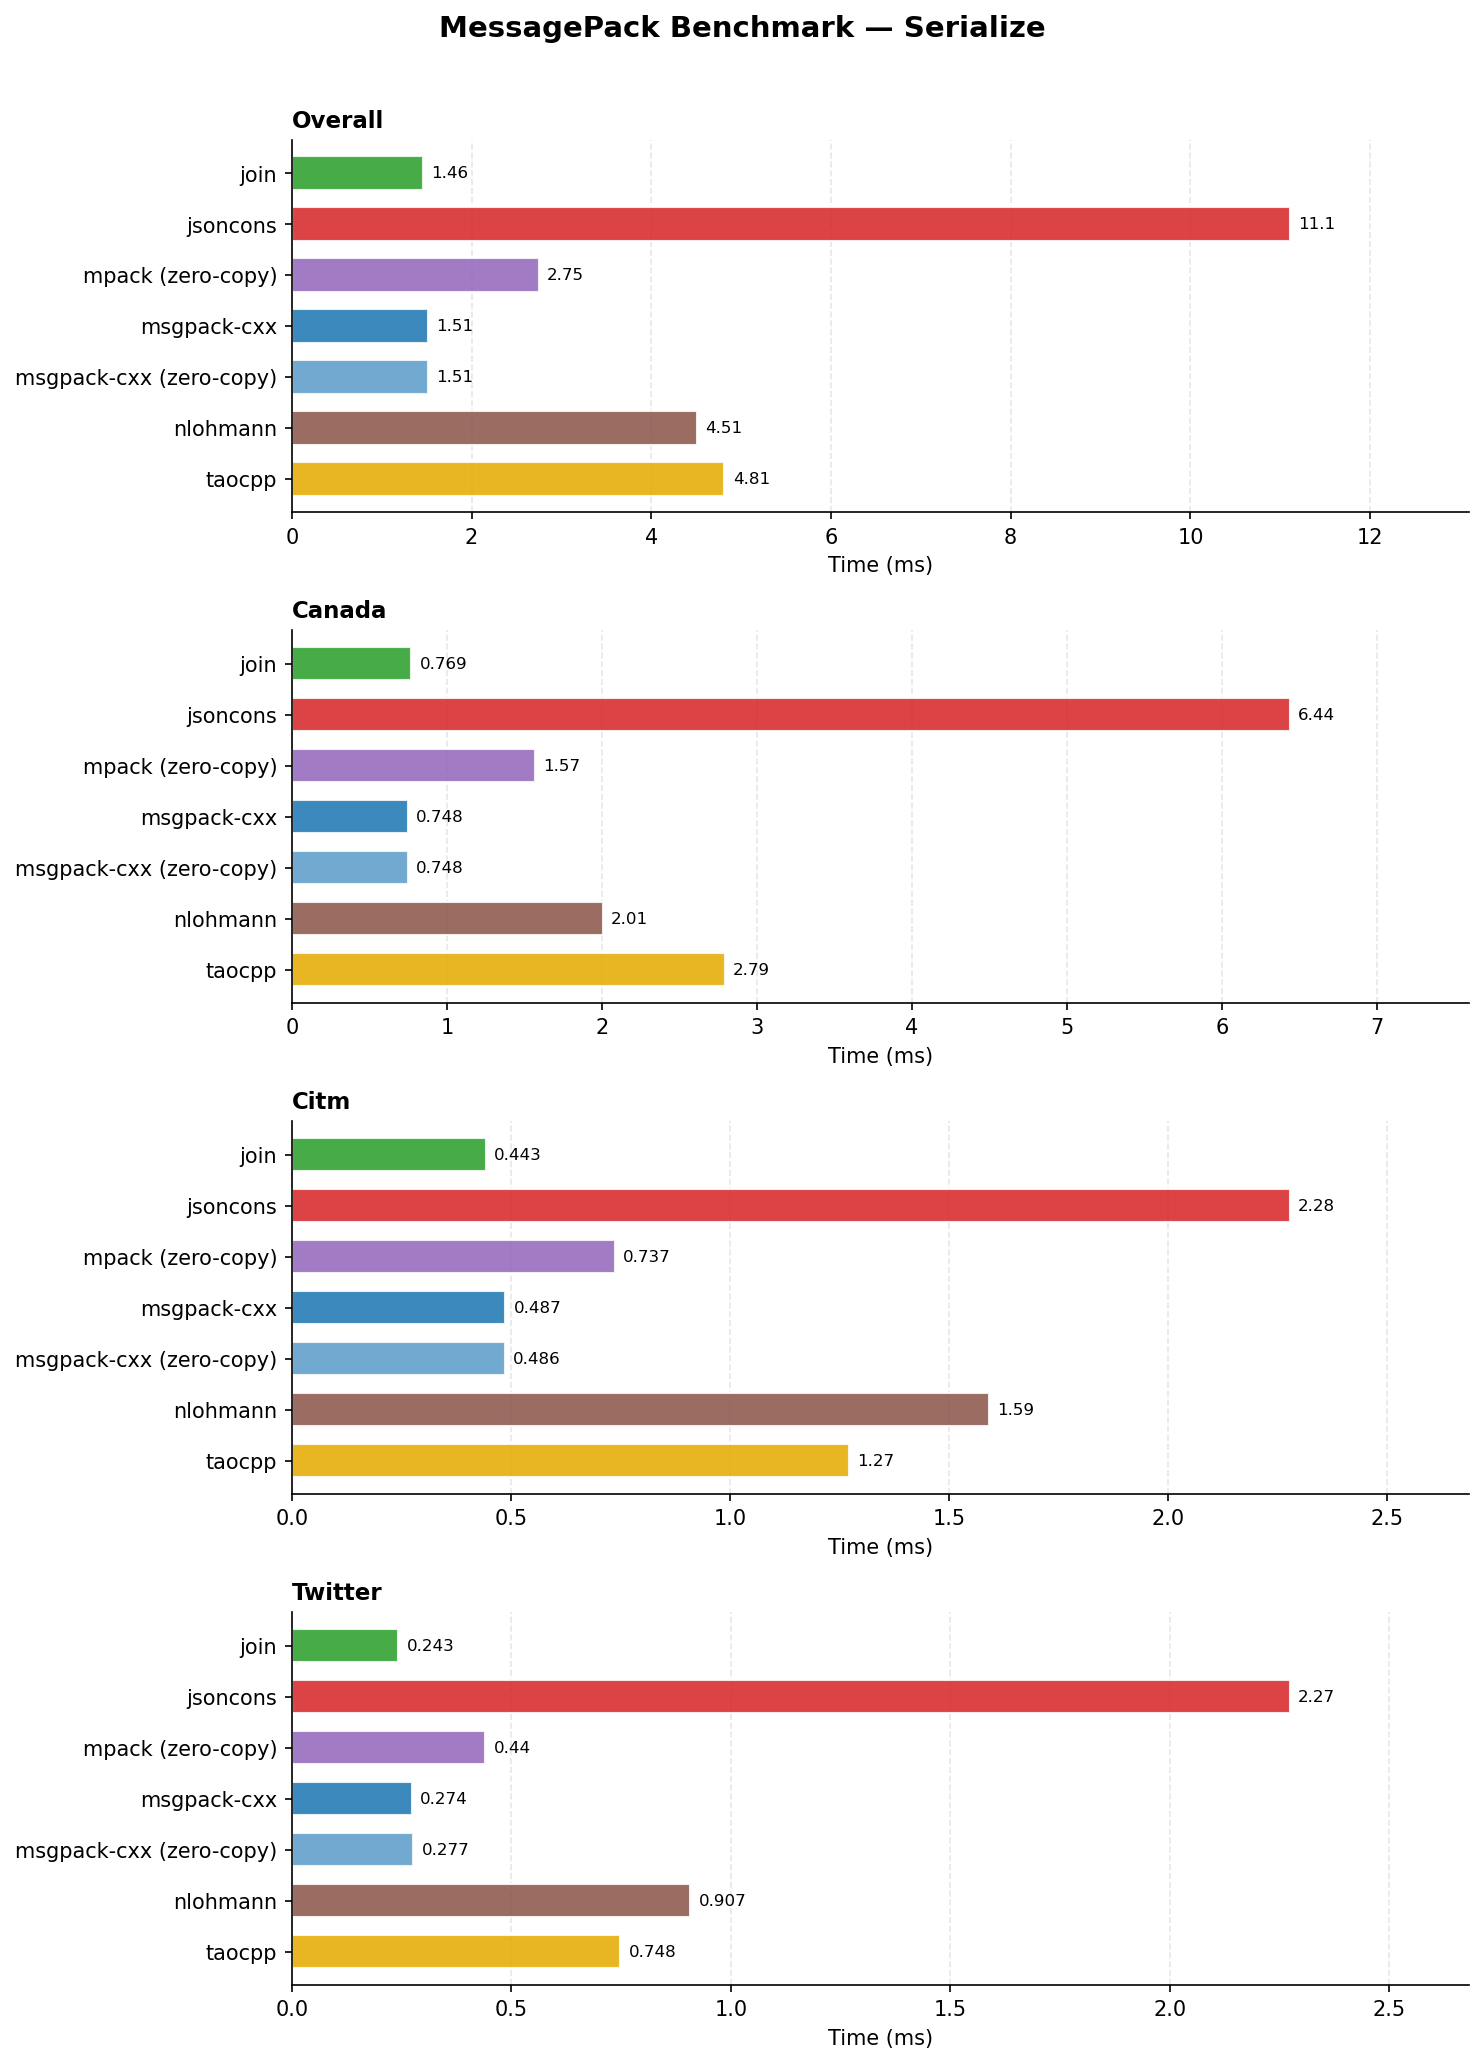
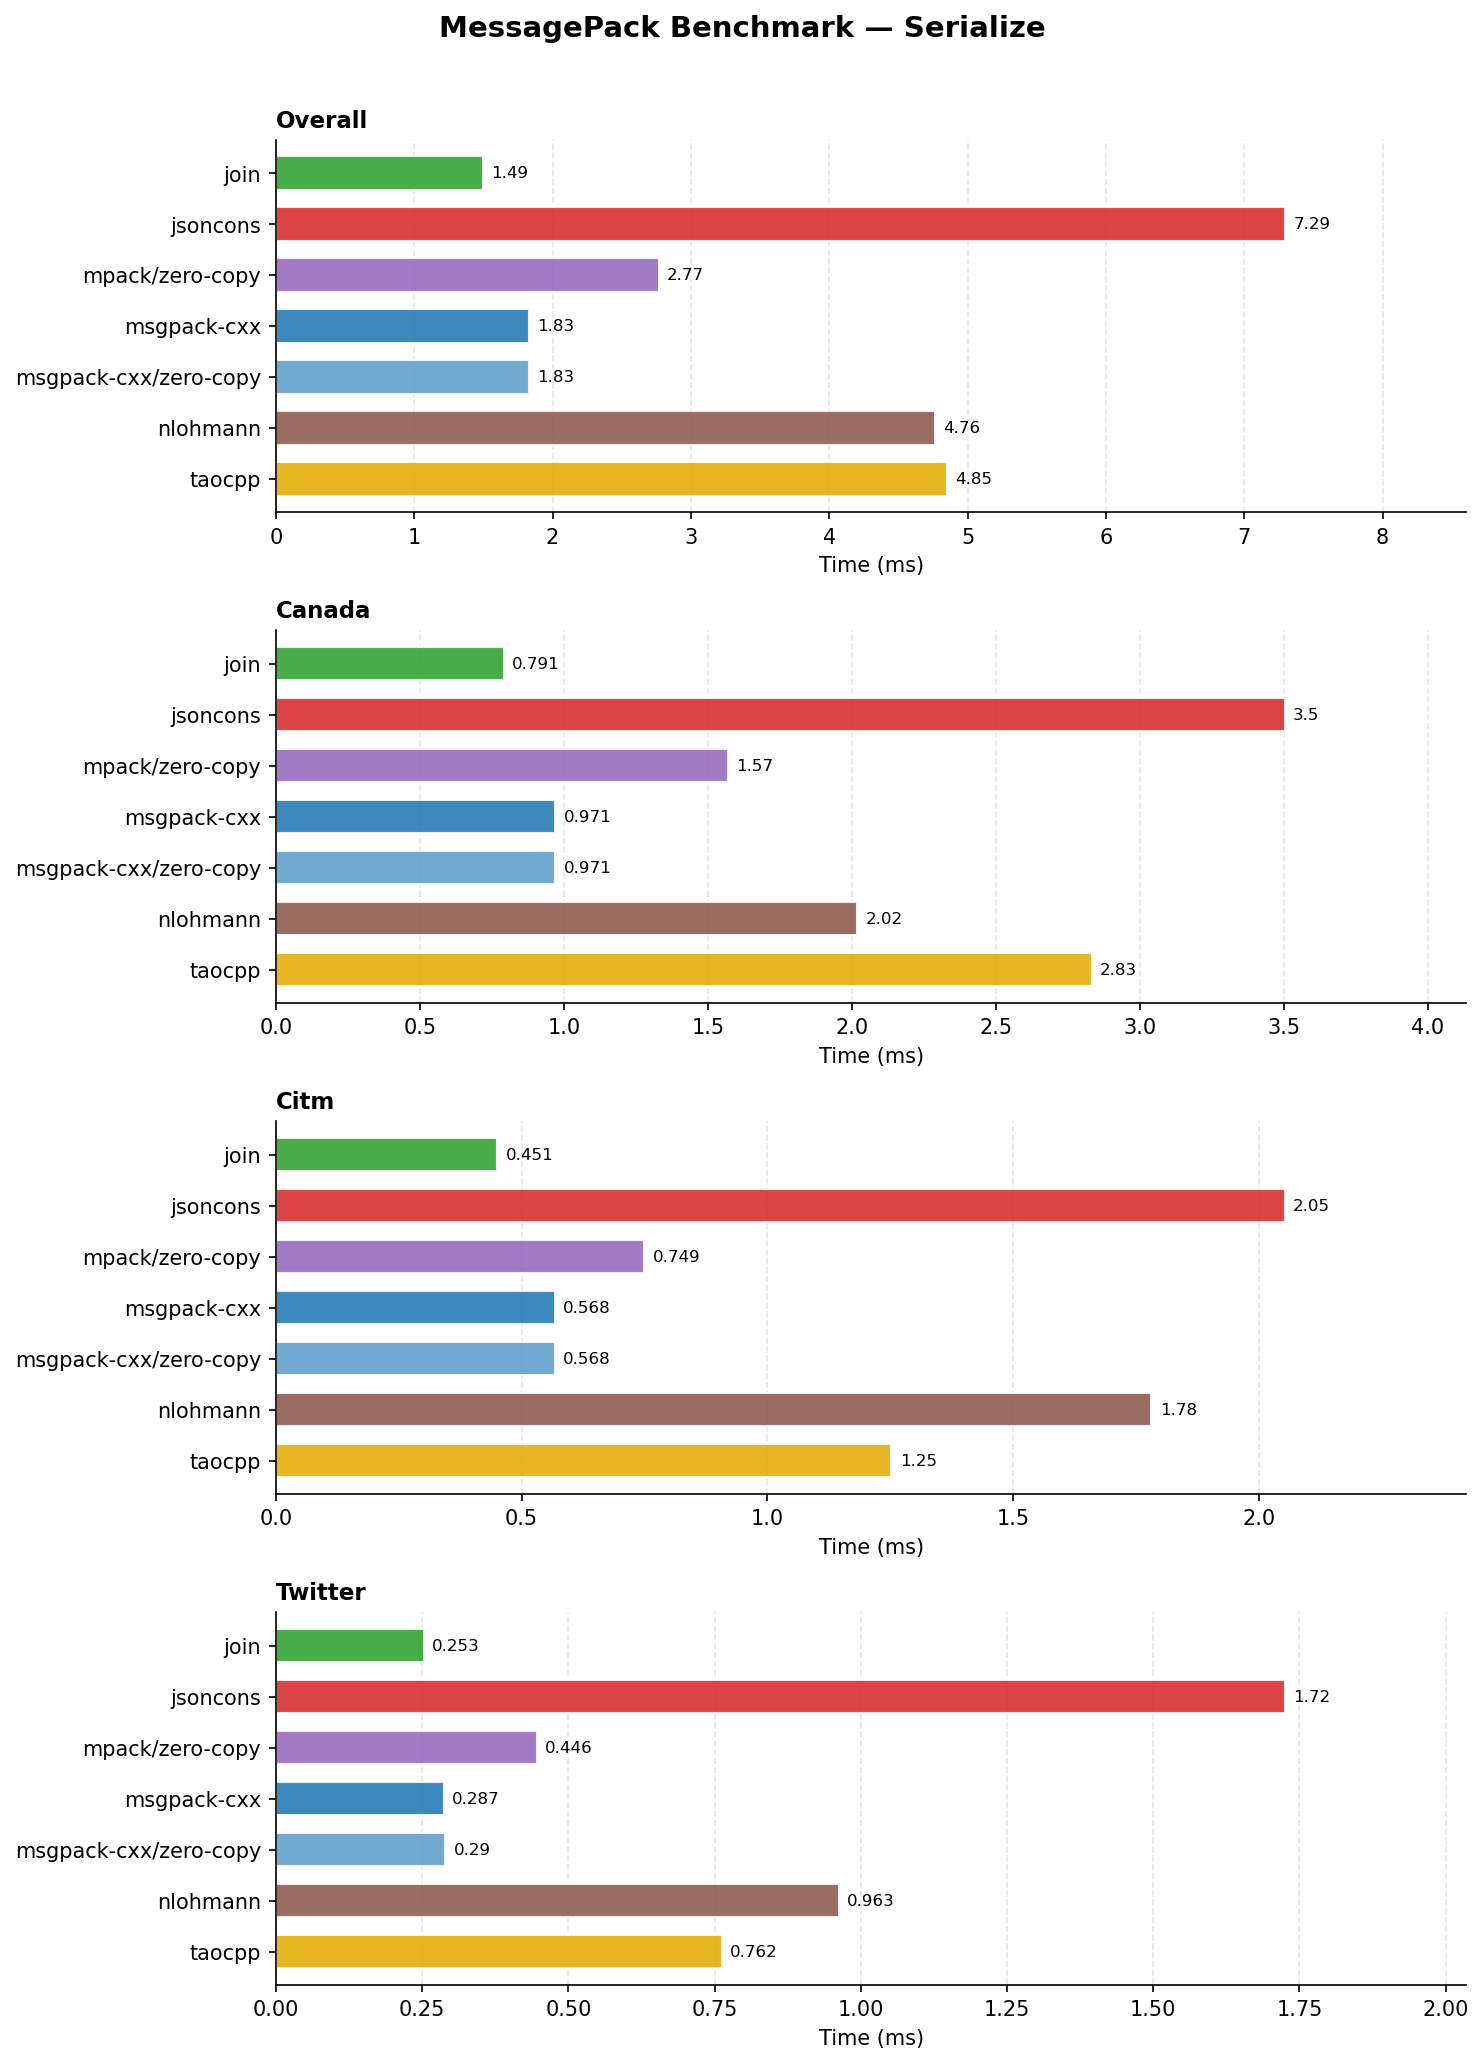
align with json-benchmark

diff --git a/plots/plot.py b/plots/plot.py
@@ -12,9 +12,9 @@ from matplotlib.colors import to_rgb
 LIBRARY_LABELS = {
     "JoinAdapter":          "join",
     "JsonConsAdapter":      "jsoncons",
-    "MpackZeroCopyAdapter": "mpack (zero-copy)",
+    "MpackZeroCopyAdapter": "mpack/zero-copy",
     "MsgpackCxxAdapter":    "msgpack-cxx",
-    "MsgpackCxxRefAdapter": "msgpack-cxx (zero-copy)",
+    "MsgpackCxxRefAdapter": "msgpack-cxx/zero-copy",
     "NlohmannAdapter":      "nlohmann",
     "TaoCppAdapter":        "taocpp",
 }

diff --git a/benchmarks/performance/bench_parse.cpp b/benchmarks/performance/bench_parse.cpp
@@ -27,6 +27,11 @@ static void BM_Parse (benchmark::State& state, const std::string* msgpack)
         auto doc = Adapter::parse (*msgpack);
         benchmark::DoNotOptimize (doc);
         state.PauseTiming ();
+        if (!doc)
+        {
+            state.SkipWithError ("Parse failed");
+            break;
+        }
         doc.reset ();
         state.ResumeTiming ();
     }

diff --git a/benchmarks/adapters/mpack.hpp b/benchmarks/adapters/mpack.hpp
@@ -162,7 +162,7 @@ namespace mpack_detail
 
 struct MpackZeroCopyAdapter
 {
-    static constexpr std::string_view name = "mpack (zero-copy)";
+    static constexpr std::string_view name = "mpack/zero-copy";
 
     using Document = std::unique_ptr<mpack_tree_t, mpack_detail::TreeDeleter>;
 

diff --git a/benchmarks/adapters/msgpack_cxx.hpp b/benchmarks/adapters/msgpack_cxx.hpp
@@ -126,5 +126,5 @@ struct MsgpackCxxAdapter : MsgpackCxxBase<false>
 
 struct MsgpackCxxRefAdapter : MsgpackCxxBase<true>
 {
-    static constexpr std::string_view name = "msgpack-cxx (zero-copy)";
+    static constexpr std::string_view name = "msgpack-cxx/zero-copy";
 };

diff --git a/README.md b/README.md
@@ -29,16 +29,16 @@ Companion of [json-benchmark](https://github.com/joinframework/json-benchmark), 
 | Library | Version | Parse | Serialize | Statistics | Conformance |
 |---------|---------|-------|-----------|------------|-------------|
 | [Join](https://github.com/joinframework/join) | `main` (e4bd643) | ✓ | ✓ | ✓ | ✓ |
-| [jsoncons](https://github.com/danielaparker/jsoncons) | 0.176.0 | ✓ | ✓ | ✓ | ✓ |
+| [jsoncons](https://github.com/danielaparker/jsoncons) | 1.10.0 | ✓ | ✓ | ✓ | ✓ |
 | [MPack](https://github.com/ludocode/mpack) (zero-copy) | 1.1.1 | ✓ | ✓ | ✓ | ✓ |
-| [msgpack-cxx](https://github.com/msgpack/msgpack-c/tree/cpp_master) (default) | 7.0.0 | ✓ | ✓ | ✓ | ✓ |
-| [msgpack-cxx](https://github.com/msgpack/msgpack-c/tree/cpp_master) (zero-copy) | 7.0.0 | ✓ | ✓ | ✓ | ✓ |
-| [nlohmann/json](https://github.com/nlohmann/json) | 3.11.3 | ✓ | ✓ | ✓ | ✓ |
+| [msgpack-cxx](https://github.com/msgpack/msgpack-c/tree/cpp_master) (default) | 9.0.0 | ✓ | ✓ | ✓ | ✓ |
+| [msgpack-cxx](https://github.com/msgpack/msgpack-c/tree/cpp_master) (zero-copy) | 9.0.0 | ✓ | ✓ | ✓ | ✓ |
+| [nlohmann/json](https://github.com/nlohmann/json) | 3.12.0 | ✓ | ✓ | ✓ | ✓ |
 | [taocpp/json](https://github.com/taocpp/json) | 1.0.0-beta.14 | ✓ | ✓ | ✓ | ✓ |
 
-All dependencies are fetched automatically via CMake FetchContent, at pinned versions (`cmake/deps.cmake`); Join is taken from its `main` branch, and taocpp/json uses PEGTL 3.2.8.
+All dependencies are fetched automatically via CMake FetchContent, pinned to their latest release (Join is taken from its main branch; taocpp/json uses PEGTL 3.2.9).
 
-Libraries fall into two categories, the zero-copy ones being labelled `(zero-copy)` in the plots:
+Libraries fall into two categories, the zero-copy ones being labelled `/zero-copy` in the plots:
 - **copying** — the DOM owns its strings, binaries and extension payloads, and the input buffer can be released after parse;
 - **zero-copy** — the DOM references the input buffer for strings, binaries and extension payloads, which must outlive the DOM. Parse then does no string copy, and statistics or serialize read the payloads from the input. Their figures are not like-for-like with the copying libraries.
 
@@ -200,7 +200,7 @@ In addition, an **output check** guards the performance benchmarks: on each data
 ## Notes
 
 - `-march=native`: CPU-specific SIMD optimisations. Results are not portable across machines.
-- Every binary is compiled as C++20 (`CMAKE_CXX_STANDARD 20`), the standard Join requires.
+- Every binary is compiled as C++17, except those linked against Join (`bench_*_join` and `conformance`), compiled as C++20, the standard Join requires.
 - Each library is measured in its own binary (`bench_<operation>_<library>`), linked only against that library, and each repetition runs in a new process, interleaved across libraries (see json-benchmark for the measurements behind both choices).
 - The allocator policy is fixed for every library (`GLIBC_TUNABLES`: 32 MB `mmap` threshold, trimming disabled), and `--benchmark_min_warmup_time=0.5` lets the heap reach its steady-state size before measurement. Each benchmark reports its page faults per iteration as the `minflt` counter; `plot.py` warns when it is not zero.
 - Benchmarks are pinned with `taskset -c $BENCH_CPU` (default 2). They are single-threaded, so pinning the process pins the measured thread.
@@ -221,10 +221,10 @@ All figures below come from a single run on this machine (3 repetitions, each in
 | RAM | 16 GiB |
 | OS | Ubuntu 26.04.1 LTS, kernel 7.0.0-42-generic |
 | Toolchain | GCC 15.2.0, CMake 4.2.3 |
-| Compile flags | `-O3 -DNDEBUG -march=native -std=c++20`; `MSGPACK_NO_BOOST` for msgpack-cxx, `MPACK_EXTENSIONS=1` for MPack |
+| Compile flags | `-O3 -DNDEBUG -march=native -std=c++17` (`-std=c++20` for Join, which requires it); `MSGPACK_NO_BOOST` for msgpack-cxx, `MPACK_EXTENSIONS=1` for MPack |
 | Join | `main` at `e4bd643` (2026-11-11) |
 | Pinning | `taskset -c 2` (physical core, SMT sibling 10) |
-| Conditions | idle machine, 3 repetitions, run started once the CPU was back to its rated clock (3688 MHz); no page fault in steady state; spread across repetitions below 2% for 42 of 63 benchmarks and below 5% for 56; outliers are jsoncons serialize (25% on `twitter.msgpack`, 11% on `citm_catalog.msgpack`), taocpp/json statistics on `citm_catalog.msgpack` (7%) and msgpack-cxx statistics on `canada.msgpack` (5–7%) |
+| Conditions | idle machine, 3 repetitions, run started once the CPU was back to its rated clock (3700 MHz); no page fault in steady state except nlohmann/json serialize on `canada.msgpack` (0.003 per iteration); spread across repetitions below 2% for 50 of 63 benchmarks and below 5% for 56; outliers are jsoncons serialize (58% on `twitter.msgpack`, 14% on `citm_catalog.msgpack`), msgpack-cxx serialize on `canada.msgpack` (13%) and jsoncons statistics on `canada.msgpack` (9%) |
 
 ## Results
 
@@ -236,11 +236,11 @@ Measured on the machine above. Re-run `scripts/run_bench.sh` to reproduce on oth
 
 ![Serialize](plots/performance_serialize.png)
 
-**Parse**: **MPack** leads at 1.75 ms, followed by **msgpack-cxx** zero-copy (2.05 ms) and default (2.16 ms); both msgpack-cxx variants take the same 1.21 ms on `canada.msgpack`, which holds almost no strings, and differ on `twitter.msgpack` (0.28 against 0.35 ms), where the default variant copies every string into its zone. **Join** (2.83 ms), the fastest copying DOM after msgpack-cxx default, is 1.3× behind it and 1.6× behind MPack. The JSON libraries with a MessagePack codec are much slower: **taocpp/json** (9.38 ms), then **jsoncons** (20.6 ms) and **nlohmann/json** (24.1 ms), 12–14× MPack.
+**Parse**: **MPack** leads at 1.72 ms, followed by **msgpack-cxx** zero-copy (2.04 ms) and default (2.22 ms); both msgpack-cxx variants take the same 1.22 ms on `canada.msgpack`, which holds almost no strings, and differ on `twitter.msgpack` (0.29 against 0.37 ms), where the default variant copies every string into its zone. **Join** (2.82 ms), the fastest copying DOM after msgpack-cxx default, is 1.3× behind it and 1.6× behind MPack. The JSON libraries with a MessagePack codec are much slower: **taocpp/json** (8.96 ms), then **jsoncons** (18.5 ms) and **nlohmann/json** (26.1 ms), 11–15× MPack.
 
-**Serialize**: **Join** leads at 1.46 ms, with both **msgpack-cxx** variants (1.51 ms) right behind. **MPack** (2.75 ms) is slower: its tree is read-only, so it is written back node by node through the `mpack_writer_t` API. **nlohmann/json** (4.51 ms) and **taocpp/json** (4.81 ms) follow, and **jsoncons** (11.1 ms) is the slowest, with the largest spread across processes (up to 25%).
+**Serialize**: **Join** leads at 1.50 ms, ahead of both **msgpack-cxx** variants (1.83 ms). **MPack** (2.77 ms) is slower: its tree is read-only, so it is written back node by node through the `mpack_writer_t` API. **nlohmann/json** (4.76 ms) and **taocpp/json** (4.85 ms) follow, and **jsoncons** (7.29 ms) is the slowest, with the largest spread across processes (up to 58%).
 
-**Statistics**: both **msgpack-cxx** variants lead at 0.52 ms, followed by **Join** (0.62 ms; 0.38 against 0.28 ms on `canada.msgpack`, on par elsewhere). **jsoncons** (0.82 ms), the fastest of all on `twitter.msgpack` (0.086 ms), and **taocpp/json** (0.92 ms) come next. **MPack** (1.49 ms) pays for its node API, every type, length and child being read through a checked function call into the compiled C library, and **nlohmann/json** (1.84 ms) is the slowest.
+**Statistics**: both **msgpack-cxx** variants lead at 0.51 ms, followed by **Join** (0.62 ms; 0.38 against 0.27 ms on `canada.msgpack`, on par elsewhere). **taocpp/json** (0.84 ms) and **jsoncons** (0.92 ms) come next, then **nlohmann/json** (1.45 ms). **MPack** (1.53 ms) is the slowest: it pays for its node API, every type, length and child being read through a checked function call into the compiled C library.
 
 ### Conformance
 
@@ -254,18 +254,18 @@ Measured on the machine above. Re-run `scripts/run_bench.sh` to reproduce on oth
 
 **Reject**: every library rejects all 35 malformed inputs.
 
-Over the 195 scored cases, **Join**, **MPack** and both **msgpack-cxx** variants score 195, **jsoncons** 186, **nlohmann/json** 177 and **taocpp/json** 159. The output check passed for every library on the three datasets.
+Over the 195 scored cases, **Join**, **MPack** and both **msgpack-cxx** variants score 195, **jsoncons** 186, **nlohmann/json** 177 and **taocpp/json** 153. The output check passed for every library on the three datasets.
 
 ### Conclusion
 
 Summary per library, with the limitations measured or documented for each:
 
-- **MPack**: perfect conformance (195/195), fastest parse (1.75 ms). Limitations: zero-copy only, so the input buffer must outlive the DOM; read-only node tree, written back node by node (serialize 2.75 ms, 1.9× Join); statistics 1.49 ms, 2.9× msgpack-cxx; C API.
-- **msgpack-cxx**: perfect conformance (195/195); parse 2.16 ms (2.05 ms zero-copy), serialize 1.51 ms, fastest statistics (0.52 ms). Limitations: `msgpack::object` is a plain tagged union allocated in a zone, whose maps are flat arrays of key/value pairs with no lookup by key; the zero-copy variant ties the DOM to the input buffer; 5–7% spread on `canada.msgpack` statistics.
-- **Join**: perfect conformance (195/195); fastest serialize (1.46 ms), parse 2.83 ms, statistics 0.62 ms, with a DOM that owns its strings and supports keys of any type. Limitations: requires C++20; output only through `std::ostream`; parse 1.3× msgpack-cxx default and 1.6× MPack; statistics 1.4× msgpack-cxx on `canada.msgpack`.
-- **taocpp/json**: parse 9.38 ms and statistics 0.92 ms, the fastest of the JSON-based libraries for parse. Limitations: rejects extension types and non-string keys (159/195); output sorted by key; versioned as a beta (1.0.0-beta.14).
-- **jsoncons**: accepts every valid input (186/195); statistics 0.82 ms. Limitations: non-string keys are converted to text (0/9 roundtrip); parse 20.6 ms, 12× MPack; slowest serialize (11.1 ms), with up to 25% spread across processes; output sorted by key.
-- **nlohmann/json**: roundtrips binaries and extensions with their subtype (177/195). Limitations: rejects non-string keys; slowest parse (24.1 ms, 14× MPack) and statistics (1.84 ms); output sorted by key.
+- **MPack**: perfect conformance (195/195), fastest parse (1.72 ms). Limitations: zero-copy only, so the input buffer must outlive the DOM; read-only node tree, written back node by node (serialize 2.77 ms, 1.9× Join); slowest statistics (1.53 ms, 3× msgpack-cxx); C API.
+- **msgpack-cxx**: perfect conformance (195/195); parse 2.22 ms (2.04 ms zero-copy), serialize 1.83 ms, fastest statistics (0.51 ms). Limitations: `msgpack::object` is a plain tagged union allocated in a zone, whose maps are flat arrays of key/value pairs with no lookup by key; the zero-copy variant ties the DOM to the input buffer; 13% spread on `canada.msgpack` serialize.
+- **Join**: perfect conformance (195/195); fastest serialize (1.50 ms), parse 2.82 ms, statistics 0.62 ms, with a DOM that owns its strings and supports keys of any type. Limitations: requires C++20; output only through `std::ostream`; parse 1.3× msgpack-cxx default and 1.6× MPack; statistics 1.4× msgpack-cxx on `canada.msgpack`.
+- **taocpp/json**: parse 8.96 ms and statistics 0.84 ms, the fastest of the JSON-based libraries for both. Limitations: rejects extension types and non-string keys (153/195); output sorted by key; versioned as a beta (1.0.0-beta.14).
+- **jsoncons**: accepts every valid input (186/195). Limitations: non-string keys are converted to text (0/9 roundtrip); parse 18.5 ms, 11× MPack; slowest serialize (7.29 ms), with up to 58% spread across processes; output sorted by key.
+- **nlohmann/json**: roundtrips binaries and extensions with their subtype (177/195). Limitations: rejects non-string keys; slowest parse (26.1 ms, 15× MPack); statistics 1.45 ms; output sorted by key.
 
 ## License
 
